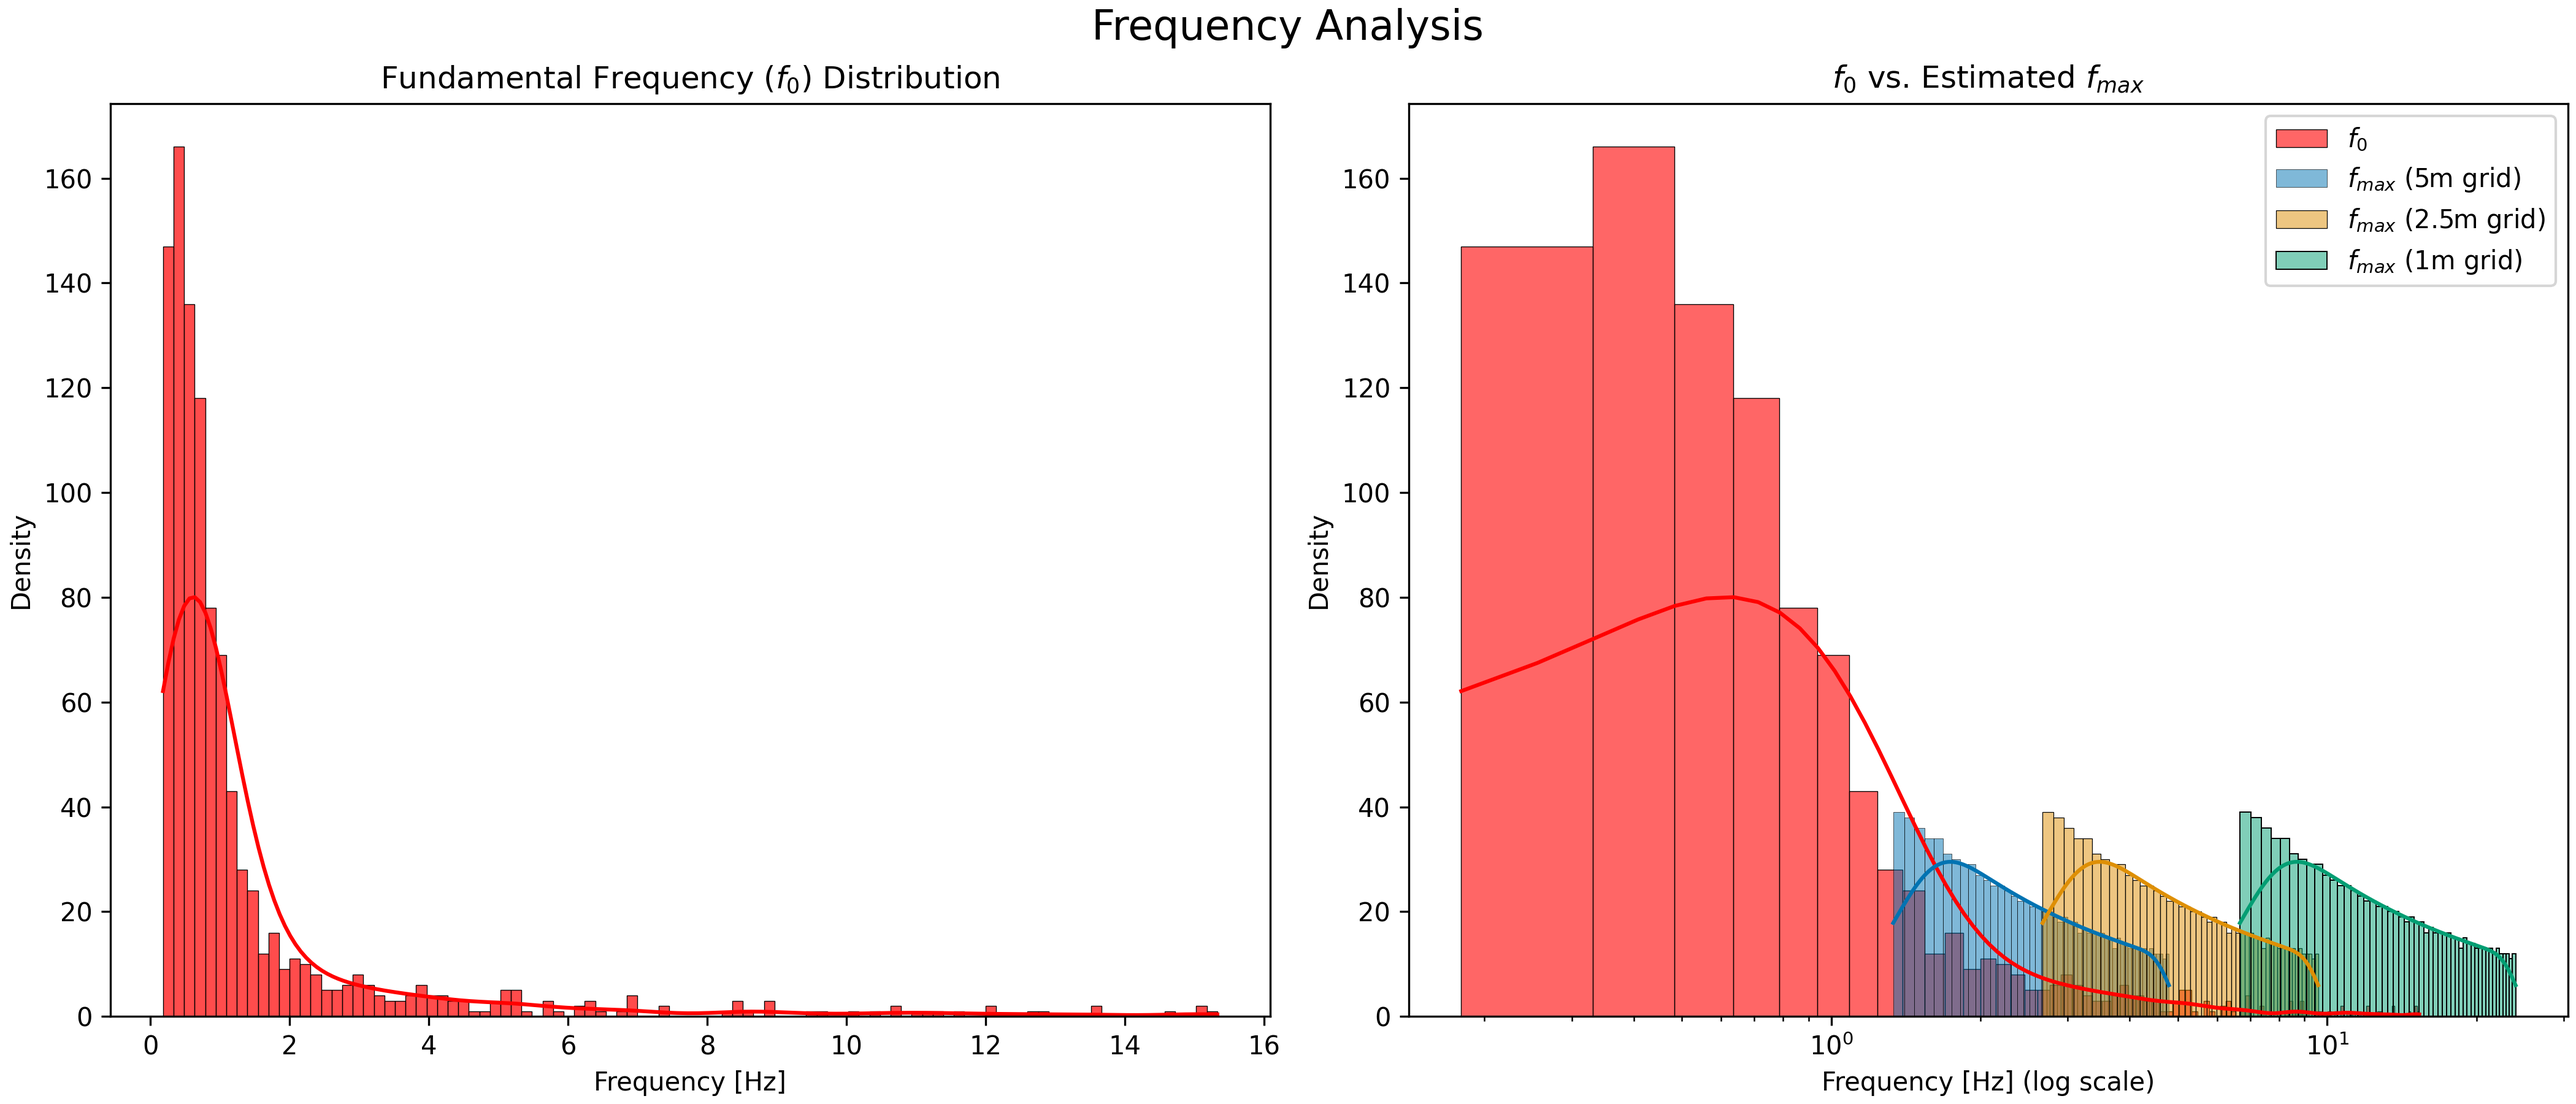
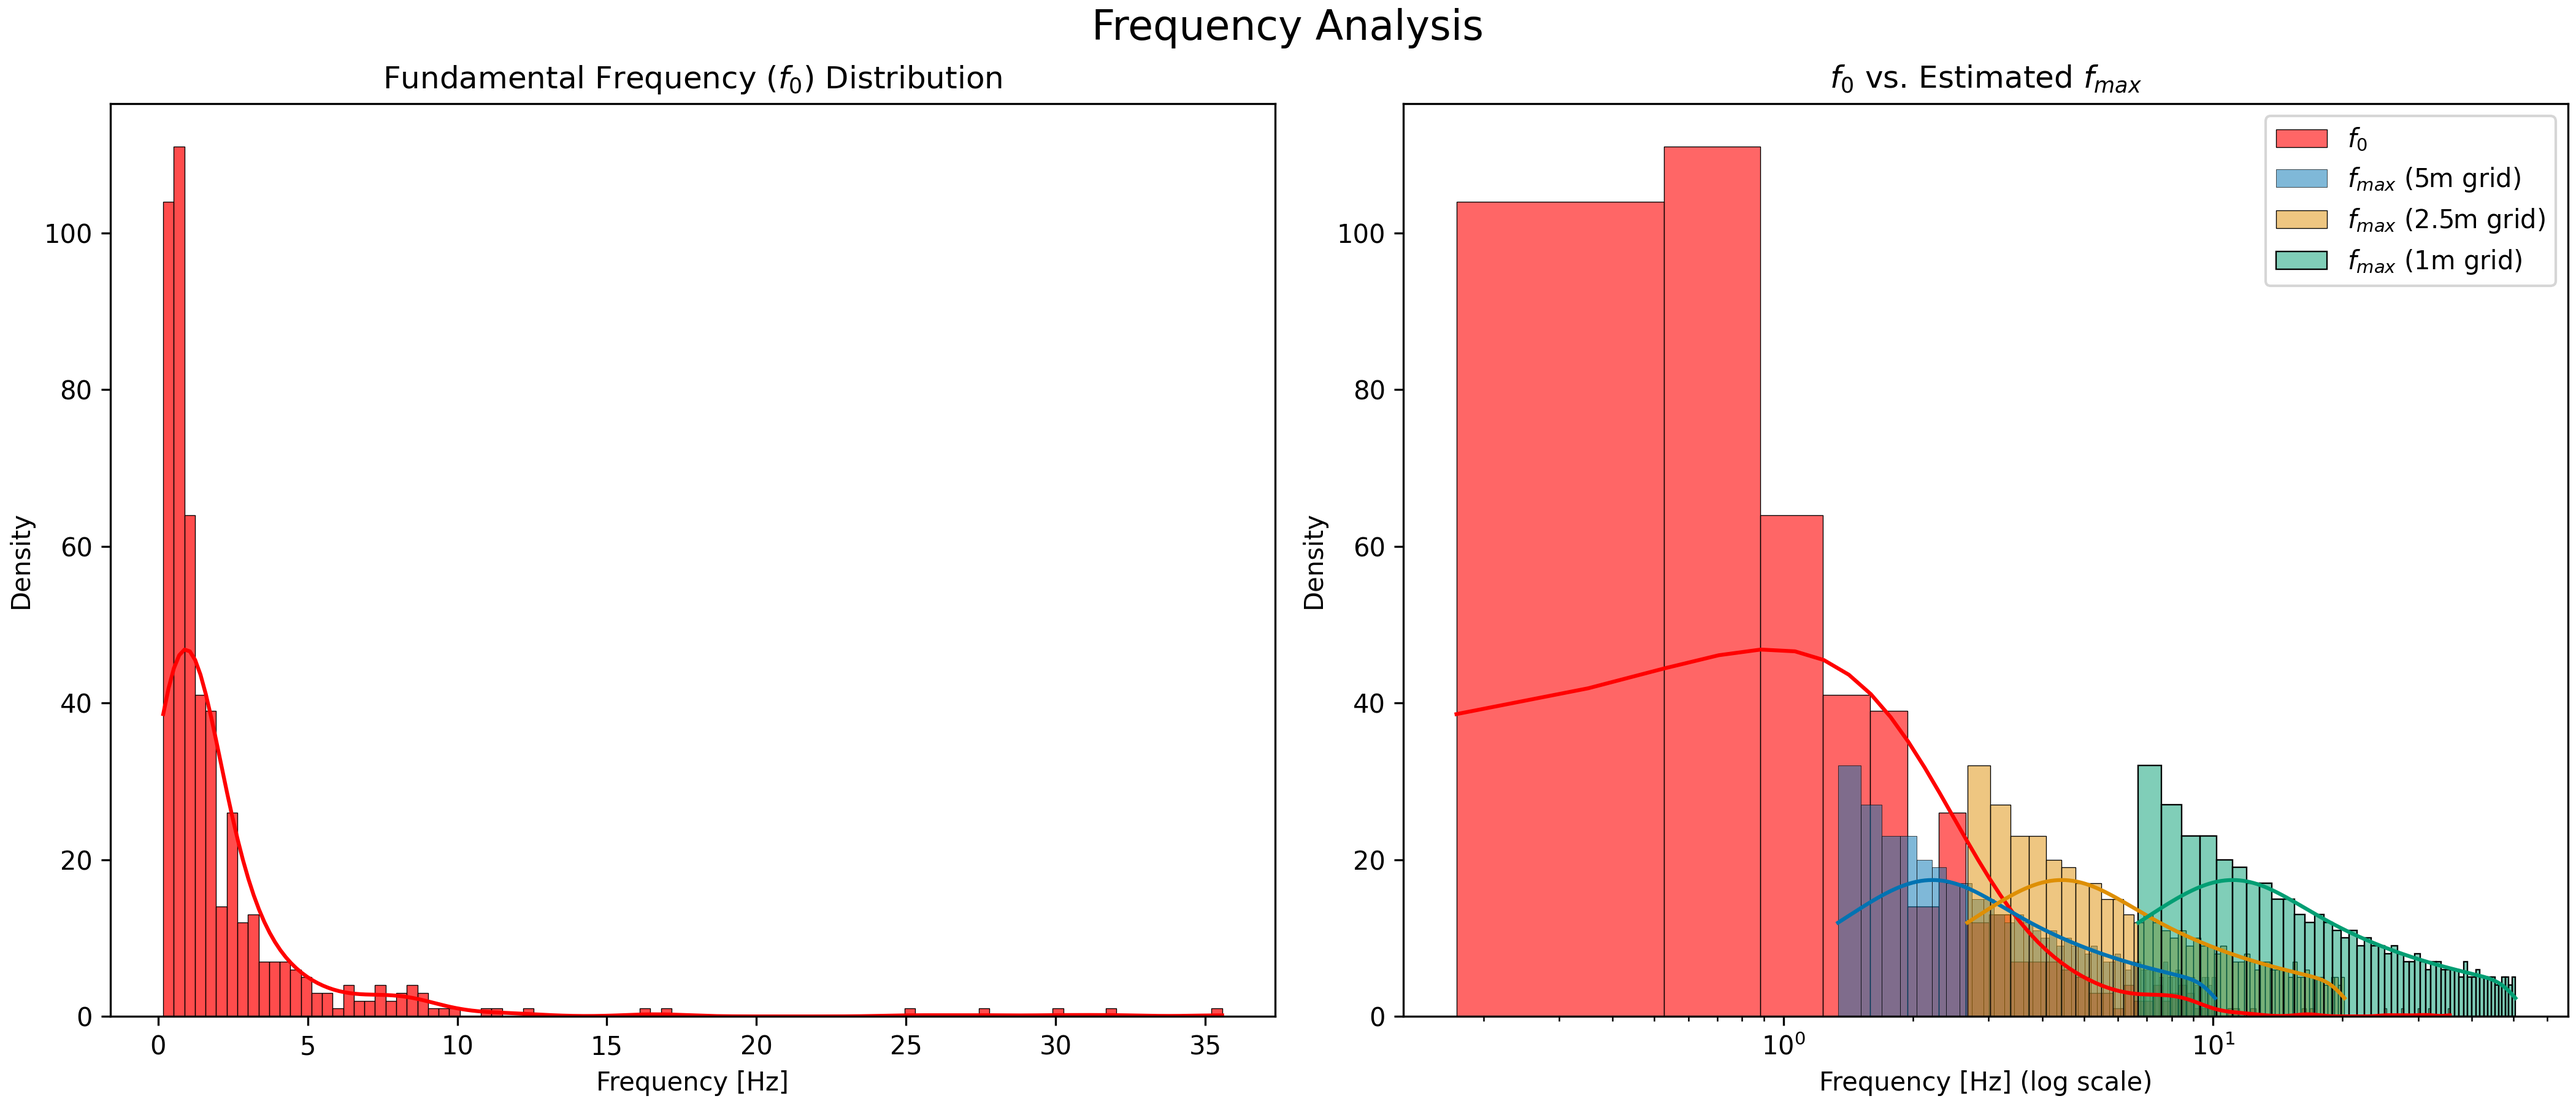
feat: Update soil velocity range and add histograms for model parameters

diff --git a/scripts/data_generation/Vs_soil_bedrock.py b/scripts/data_generation/Vs_soil_bedrock.py
@@ -14,7 +14,7 @@ sns.set_palette("colorblind")
 
 def generate_velocity_profiles(
     num_models: int = 1000,
-    vs_soil_range_log10: tuple[float, float] = (np.log10(100), np.log10(360)),
+    vs_soil_range_log10: tuple[float, float] = (np.log10(100), np.log10(760)),
     vs_bedrock_range_log10: tuple[float, float] = (np.log10(760), np.log10(1500)),
     h_layer_range: tuple[int, int] = (1, 29),
     dz: float = 5.0,
@@ -108,6 +108,30 @@ def plot_property_distributions(df: pd.DataFrame, output_dir: Path):
     plt.close()
     logger.info(f"Saved pairplot to {output_path}")
 
+    # Create histogram in a 3 subplots
+    fig, axes = plt.subplots(1, 3, figsize=(15, 5), constrained_layout=True)
+    fig.suptitle("Distributions of Model Parameters", fontsize=16)
+    sns.histplot(
+        x=df["vs_soil"], bins=30, kde=False, ax=axes[0], color="blue", alpha=0.7
+    )
+    axes[0].set_title("$V_{s, soil}$ Distribution")
+    axes[0].set_xlabel("$V_{s, soil}$ [m/s]")
+    axes[0].set_ylabel("Frequency")
+    sns.histplot(
+        x=df["vs_bedrock"], bins=30, kde=False, ax=axes[1], color="green", alpha=0.7
+    )
+    axes[1].set_title("$V_{s, bedrock}$ Distribution")
+    axes[1].set_xlabel("$V_{s, bedrock}$ [m/s]")
+    axes[1].set_ylabel("Frequency")
+    sns.histplot(x=df["h"], bins=40, kde=False, ax=axes[2], color="orange", alpha=0.7)
+    axes[2].set_title("Thickness h Distribution")
+    axes[2].set_xlabel("Thickness h [m]")
+    axes[2].set_ylabel("Frequency")
+    output_path = output_dir / "property_histograms.png"
+    plt.savefig(output_path, dpi=300, bbox_inches="tight")
+    plt.close()
+    logger.info(f"Saved histograms to {output_path}")
+
 
 def plot_frequency_analysis(df: pd.DataFrame, output_dir: Path):
     """
@@ -162,7 +186,7 @@ def plot_frequency_analysis(df: pd.DataFrame, output_dir: Path):
 def main():
     """Main execution script."""
     # --- Configuration ---
-    NUM_MODELS = 5000
+    NUM_MODELS = 500
     DATA_DIR = Path("data/Soil_Bedrock")
     FIGURE_DIR = Path("outputs/figures/Soil_Bedrock")
 
